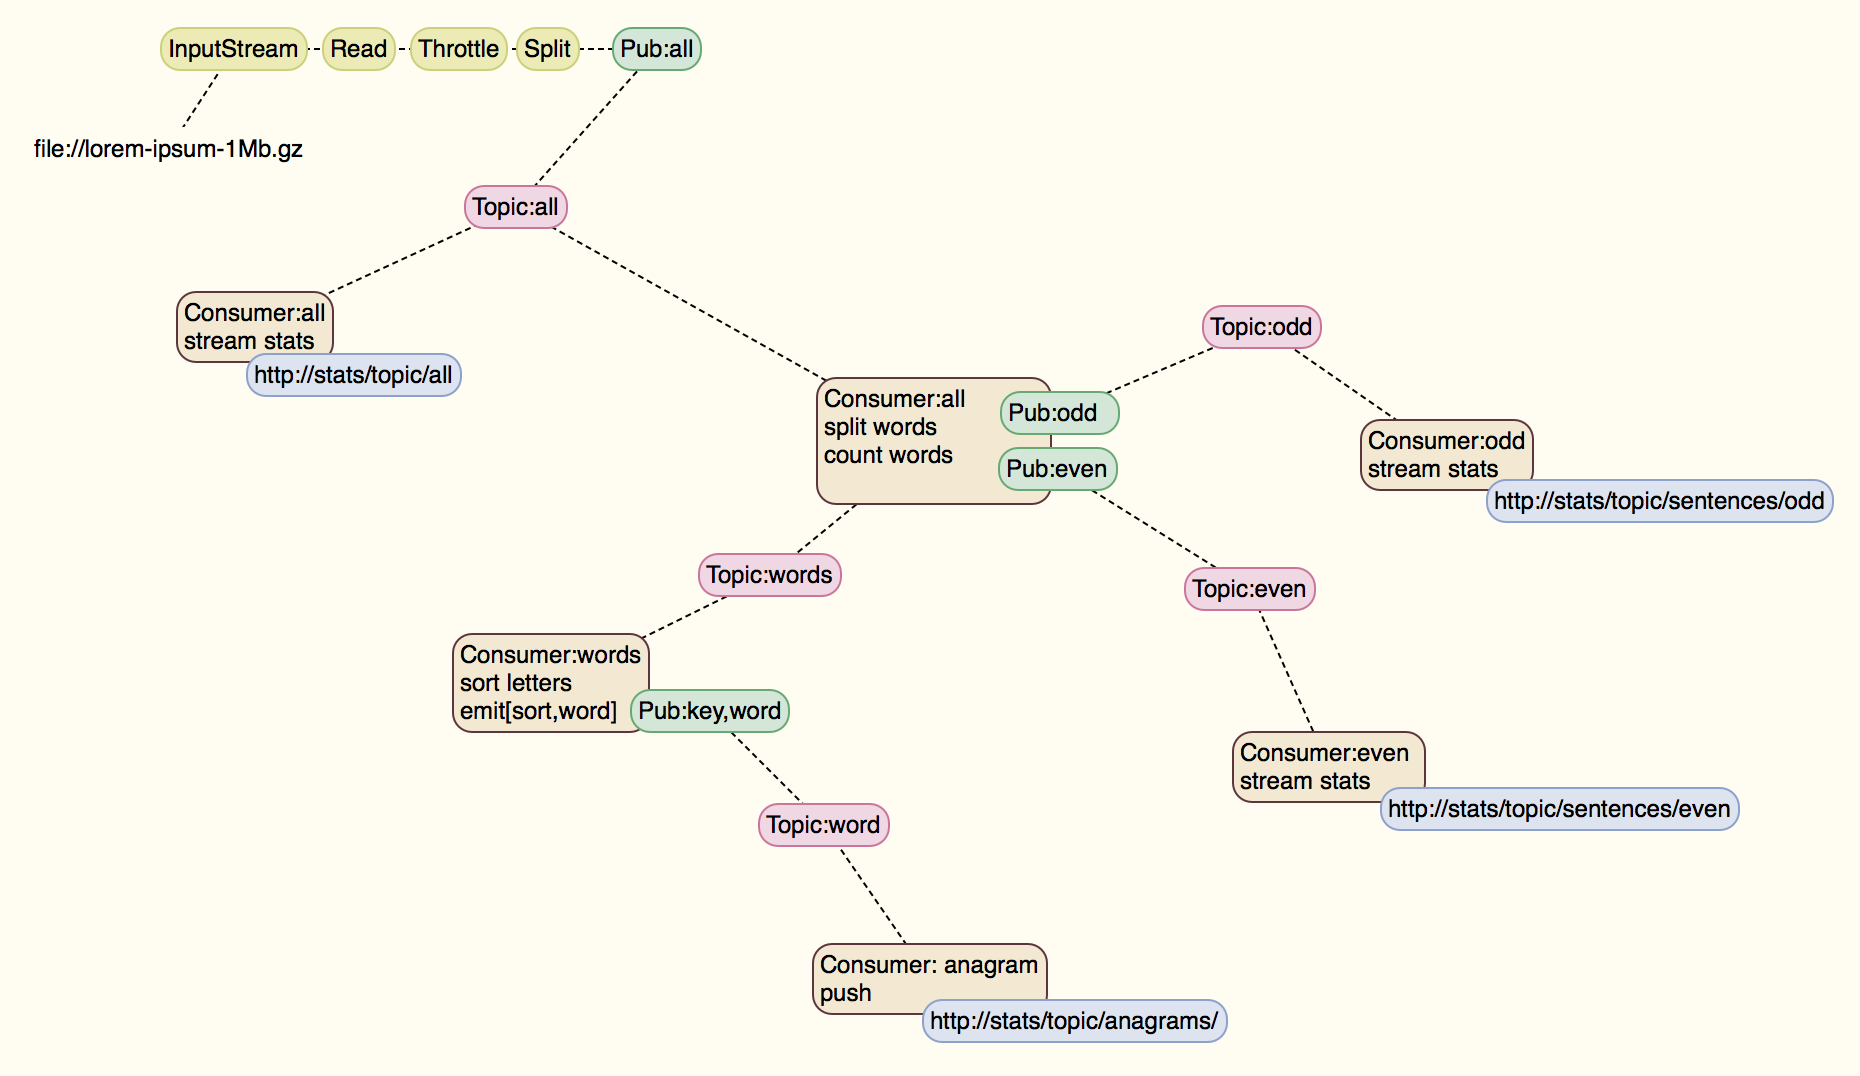
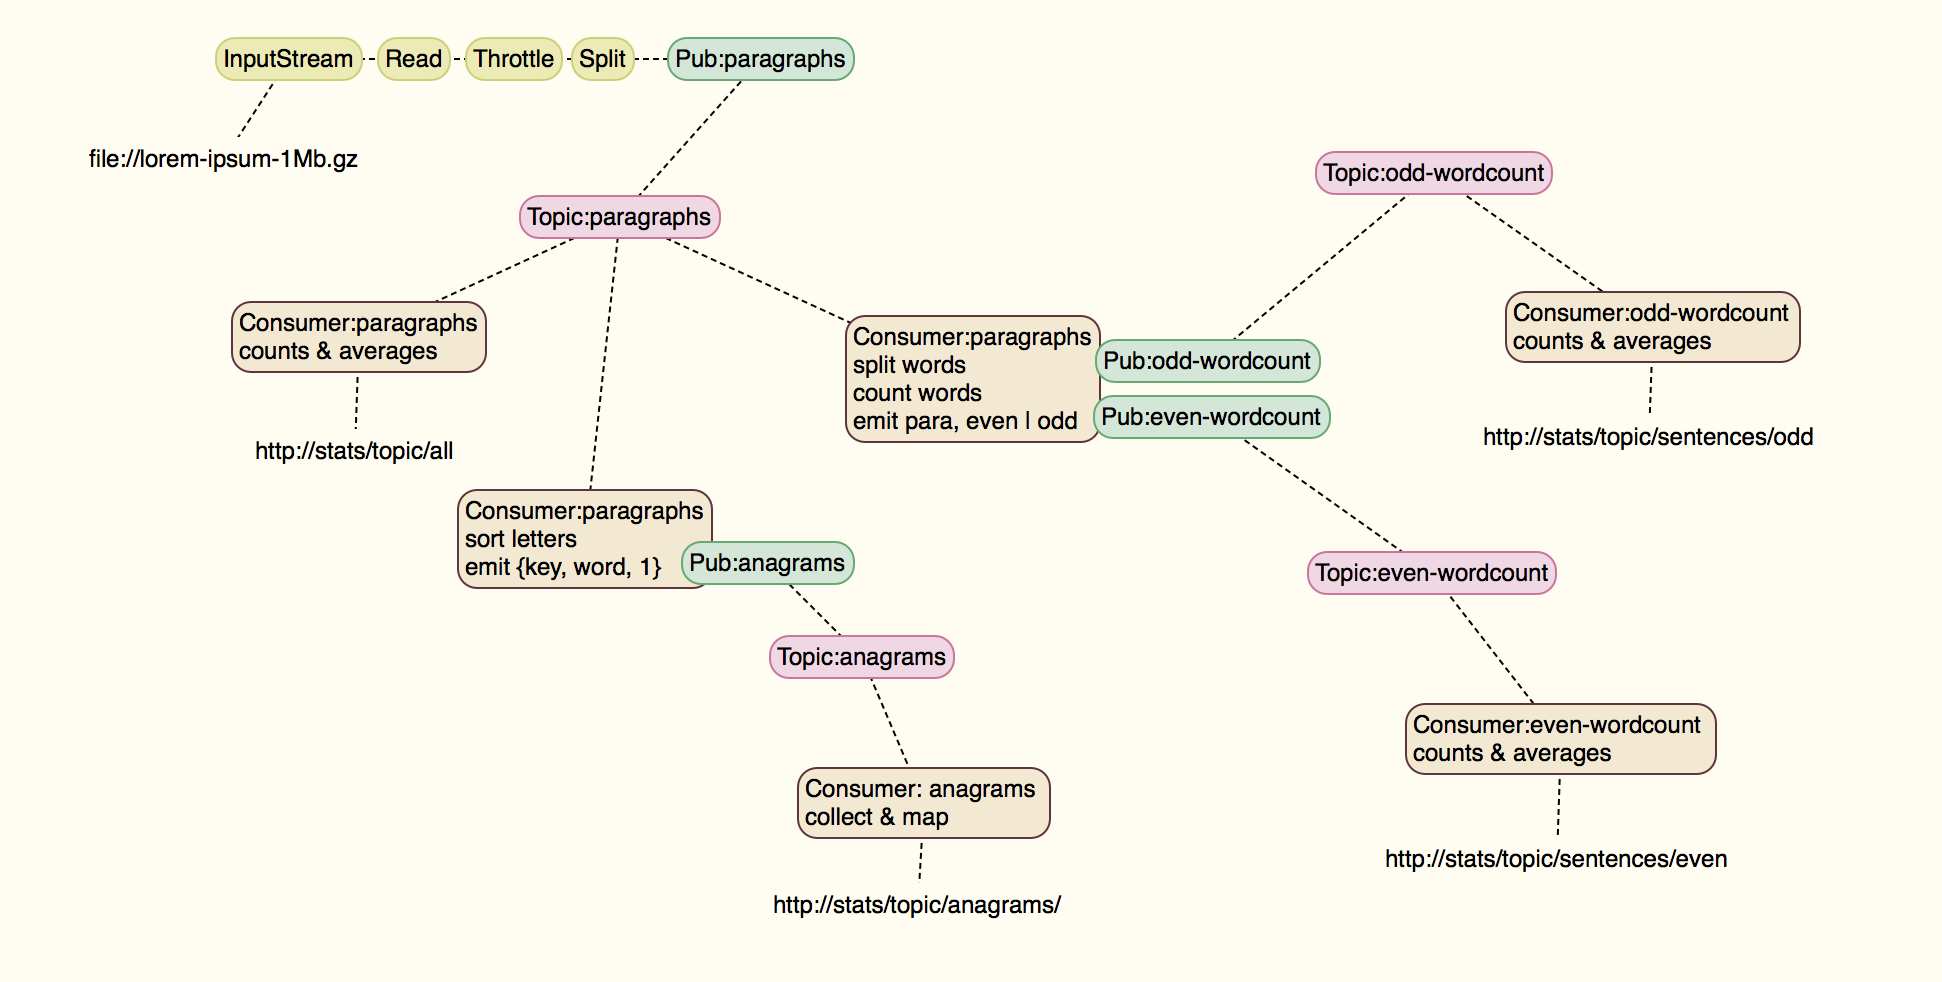
finished the consume_anagrams feature

diff --git a/node/event-producer/kafka-node_consume_anagrams.js b/node/event-producer/kafka-node_consume_anagrams.js
@@ -1,7 +1,5 @@
 
 
-var numeral = require('numeral');
-
 var argv = require('optimist')
     .usage('Usage: $0 \
     --groupid=[req: kafka-node-group-0,1,2,3...] \
@@ -10,7 +8,6 @@ var argv = require('optimist')
     --partition=[def: 0] \
     --autocommit=[ true|false, def:true] \
     --autocommitinterval=[ 500,1000,etc. ms, def:5000] \
-    --serverport [####, def:3000] \
     ')
     .demand(['groupid','zk','topic'])
     .argv;
@@ -21,7 +18,6 @@ var topic = argv.topic;
 var partition = argv.partition || 0;
 var autocommit = argv.autocommit || true;
 var autocommitinterval = argv.autocommitinterval || 5000;
-var serverport = argv.serverport || 3000;
 
 var options = {
     //consumer group id, default `kafka-node-group`
@@ -59,69 +55,27 @@ consumer = new Consumer(
     options
 );
 
-var count = 0;
-var total_bytes = 0;
-
-var Jetty = require("jetty");
-// Create a new Jetty object. This is a through stream with some additional
-// methods on it. Additionally, connect it to process.stdout
-var jetty = new Jetty(process.stdout);
-// Clear the screen
-jetty.clear();
-jetty.moveTo([0,0]);
-jetty.text("Stats for Kafka Topic '"+topic+"'");
-
-function stats(message) {
-  total_bytes+=message.value.length;
-  count++;
-  avg_size = total_bytes / count;
-  jetty.moveTo([1,0]);
-  jetty.text(
-    'total_messages: '.concat(numeral(count,'0 a'))
-    +'\navg_msg_size: '.concat(numeral(avg_size).format('0.00 b'))
-    +'\ntotal_msg_volume: '.concat(numeral(total_bytes).format('0.00 b'))
-    +'\n');
-  jetty.clearLine();
-}
-
-consumer.on('message', function(message) {
-    stats(message);
-});
-consumer.on('error', function(err) {
-  console.log(err);
-});
-
-
-/*
-// web part
-var express = require("express");
-var app = express();
-
-var router = express.Router();
-var host,port;
-
-router.use(function(req,res,next) {
-  console.log("" + req.baseUrl + " " + req.ip );
-  next();
-});
-
-router.use("/topic/:topic",function(req,res,next){
-  console.log(req.params.topic)
-  if(req.params.topic == 'airshop') {
-    res.json({"message" : "true"});
+var counter = 0;
+var dict = new Array();
+consumer.on('message', function (message) {
+  counter++;
+  var parts = message.value.split(',');
+  var key = parts[0];
+  var word = parts[1];
+  var count = parts[2];
+  var found = (key in dict);
+  if (found) {
+    all_words = dict[key];
+    same_word = all_words[word];
+    if (same_word) { // add to that word count
+      all_words[word] = same_word + parseInt(count);
+    } else { // add that word to the set of words for that anagram
+      all_words[word] = parseInt(count);
+    }
+  } else {
+    dict[key]={};
+    all_words = dict[key];
+    all_words[word] = parseInt(count);
   }
-  else next();
+  console.log(key, dict[key]);
 });
-
-router.get("/",function(req,res){
-  res.json({"message" : "Kafka Report App listening at http://"+host+":"+port});
-});
-
-app.use("/api",router);
-
-var server = app.listen(serverport, function () {
-  host = server.address().address;
-  port = server.address().port;
-  console.log('Kafka Report App listening at http://%s:%s', host, port);
-});
-*/

diff --git a/node/event-producer/kafka-node_consume_template.js b/node/event-producer/kafka-node_consume_template.js
@@ -1,7 +1,5 @@
 
 
-var numeral = require('numeral');
-
 var argv = require('optimist')
     .usage('Usage: $0 \
     --groupid=[req: kafka-node-group-0,1,2,3...] \
@@ -10,7 +8,6 @@ var argv = require('optimist')
     --partition=[def: 0] \
     --autocommit=[ true|false, def:true] \
     --autocommitinterval=[ 500,1000,etc. ms, def:5000] \
-    --serverport [####, def:3000] \
     ')
     .demand(['groupid','zk','topic'])
     .argv;
@@ -21,7 +18,6 @@ var topic = argv.topic;
 var partition = argv.partition || 0;
 var autocommit = argv.autocommit || true;
 var autocommitinterval = argv.autocommitinterval || 5000;
-var serverport = argv.serverport || 3000;
 
 var options = {
     //consumer group id, default `kafka-node-group`
@@ -60,68 +56,7 @@ consumer = new Consumer(
 );
 
 var count = 0;
-var total_bytes = 0;
 
-var Jetty = require("jetty");
-// Create a new Jetty object. This is a through stream with some additional
-// methods on it. Additionally, connect it to process.stdout
-var jetty = new Jetty(process.stdout);
-// Clear the screen
-jetty.clear();
-jetty.moveTo([0,0]);
-jetty.text("Stats for Kafka Topic '"+topic+"'");
-
-function stats(message) {
-  total_bytes+=message.value.length;
+consumer.on('message', function (message) {
   count++;
-  avg_size = total_bytes / count;
-  jetty.moveTo([1,0]);
-  jetty.text(
-    'total_messages: '.concat(numeral(count,'0 a'))
-    +'\navg_msg_size: '.concat(numeral(avg_size).format('0.00 b'))
-    +'\ntotal_msg_volume: '.concat(numeral(total_bytes).format('0.00 b'))
-    +'\n');
-  jetty.clearLine();
-}
-
-consumer.on('message', function(message) {
-    stats(message);
 });
-consumer.on('error', function(err) {
-  console.log(err);
-});
-
-
-/*
-// web part
-var express = require("express");
-var app = express();
-
-var router = express.Router();
-var host,port;
-
-router.use(function(req,res,next) {
-  console.log("" + req.baseUrl + " " + req.ip );
-  next();
-});
-
-router.use("/topic/:topic",function(req,res,next){
-  console.log(req.params.topic)
-  if(req.params.topic == 'airshop') {
-    res.json({"message" : "true"});
-  }
-  else next();
-});
-
-router.get("/",function(req,res){
-  res.json({"message" : "Kafka Report App listening at http://"+host+":"+port});
-});
-
-app.use("/api",router);
-
-var server = app.listen(serverport, function () {
-  host = server.address().address;
-  port = server.address().port;
-  console.log('Kafka Report App listening at http://%s:%s', host, port);
-});
-*/

diff --git a/node/event-producer/kafka-node_producer.js b/node/event-producer/kafka-node_producer.js
@@ -7,7 +7,13 @@ var kafka = require('kafka-node');
 
 
 var argv = require('optimist')
-    .usage('Usage: $0 --zk=[kafka_zk_0:2181] --fn=[compressed data file name] --kbps=[kilobytes per second] --topic=[kafka-topic name] --continuous=[true|false or a specific number of times to loop on the file]')
+    .usage('Usage: $0 \
+    --zk=[kafka_zk_0:2181] \
+    --fn=[compressed data file name] \
+    --kbps=[kilobytes per second] \
+    --topic=[kafka-topic name] \
+    --continuous=[true|false or a specific number of times to loop on the file] \
+    ')
     .demand(['zk', 'fn','kbps','topic','continuous'])
     .argv;
 
